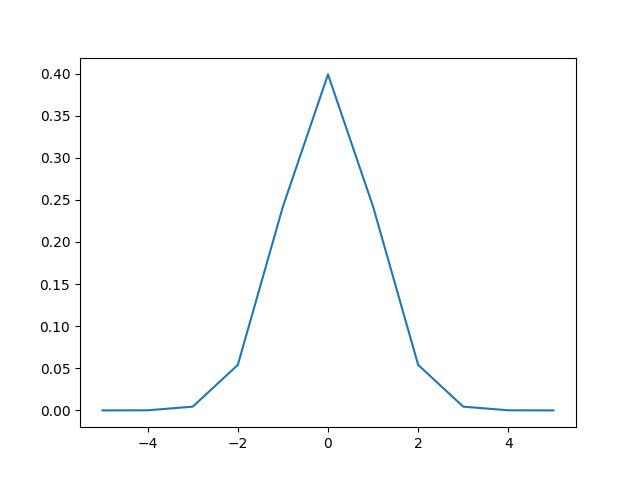
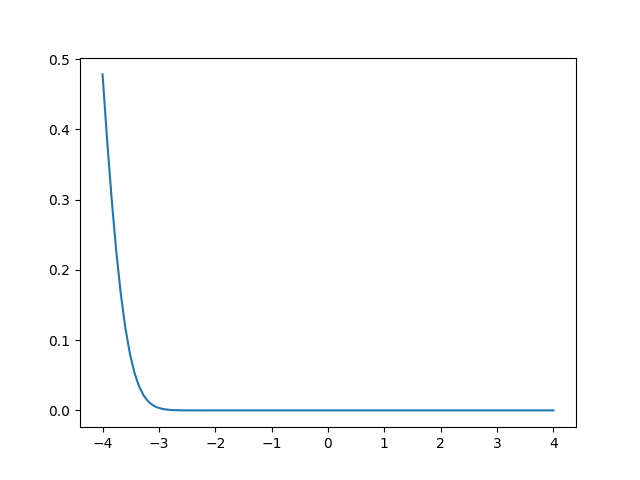
mise à jour du module proba

diff --git a/Cinquième_Livrable/Dossier_du_Cinquième_livrable/4.Programmation/style.css b/Cinquième_Livrable/Dossier_du_Cinquième_livrable/4.Programmation/style.css
@@ -333,19 +333,21 @@ h4 {
     margin-inline: 5%;
 }
 
-.Proba_Resultat span{
-    display: flex;
-    justify-content: center;
-    align-items: center;
-    gap: 30px;
+/*.Proba_Resultat span{*/
+/*    display: flex;*/
+/*    justify-content: center;*/
+/*    align-items: center;*/
+/*    gap: 30px;*/
+/*}*/
+.Proba_Resultat img{
+    width: 500px;
+    height: 300px;
 }
-.Proba_TextArea {
-    /* <Textarea> */
-    border: none;
-    resize: none;
-    width: 300px;
-    height: 200px;
-    /* L'utilisateur ne peut pas redimentionner */
+
+.Proba_Resultat .rectangle_vide{
+    width: 500px;
+    height: 300px;
+    background-color: #fff;
 }
 
 /* Module Conversion */

diff --git a/Cinquième_Livrable/Dossier_du_Cinquième_livrable/4.Programmation/Utilisateur/methode_rectangles.py b/Cinquième_Livrable/Dossier_du_Cinquième_livrable/4.Programmation/Utilisateur/methode_rectangles.py
@@ -1,7 +1,10 @@
 # Calcul de probabilité de la loi normale avec la méthode des rectangles droits
+from scipy.stats import norm
 import matplotlib.pyplot as plt
 import sys
 from loi_normale import loi_normale
+import numpy as np
+
 
 def methode_rectangles(mu, sigma, quantile):
     a = 0  # limite inferieur alpha de l'intervalle [a;b]
@@ -10,36 +13,28 @@ def methode_rectangles(mu, sigma, quantile):
     x = a
     largeur = (b - a) / n  # Largeur des rectangles
     resultat = 0
-    vx=[]
-    vy=[]
 
     for i in range(n):
         loi = loi_normale(mu,sigma,x)
         resultat = resultat + loi  # On somme la fonction de la loi normale
         x = x + largeur  # On avance pas à pas
-        vx.append(i)
-        vy.append(loi)
 
-    plt.bar(vx, vy, width=2)
     # Afficher le graphique
-    plt.show()
     return resultat * largeur + 0.5
 
 
-# def graphe(mu,sigma,quantile):
-#     x = [i for i in range(-5, 6)]
-#     y = [methode_rectangles(mu,sigma,i) for i in x]
-#
-#     plt.plot(x, y)
-#     # plt.show()
-#     plt.savefig('graphe.png')
-#     return loi_normale(mu,sigma,5)
+def graphe(mu,sigma,quantile):
+    plt.clf()
+    axe = np.linspace(-4, 4, 100)
+    plt.plot(axe, norm.pdf(axe, mu, sigma))
+    # plt.show()
+    plt.savefig('graphe.png')
+    return methode_rectangles(mu,sigma,quantile)
 
-#
-# if __name__ == '__main__':
-#     mu = float(sys.argv[1])
-#     sigma = float(sys.argv[2])
-#     quantile = float(sys.argv[3])
 
-resultat = methode_rectangles(0, 1, 0)
-print(resultat)
+if __name__ == '__main__':
+    mu = float(sys.argv[1])
+    sigma = float(sys.argv[2])
+    quantile = float(sys.argv[3])
+    resultat = graphe(mu, sigma, quantile)
+    print(resultat)

diff --git a/Cinquième_Livrable/Dossier_du_Cinquième_livrable/4.Programmation/Utilisateur/normal_law.php b/Cinquième_Livrable/Dossier_du_Cinquième_livrable/4.Programmation/Utilisateur/normal_law.php
@@ -1,18 +1,18 @@
 <?php
 
 if(isset($_POST["valider"])){
+    $methode_choisie = $_POST['methode'];
     $mu = $_POST['mu'];
     $sigma = $_POST['sigma'];
     $t = $_POST['t'];
     $loi_normale ="C:\Users\mlaat\AppData\Local\Programs\Python\Python310\python.exe loi_normale.py 2>&1";
     $methode_rectangles ="C:\Users\mlaat\AppData\Local\Programs\Python\Python310\python.exe methode_rectangles.py 2>&1";
-    $methode_trapezes ="C:\Users\mlaat\AppData\Local\Programs\Python\Python310\python.exe methode_rectangles.py 2>&1";
+    $methode_trapezes ="C:\Users\mlaat\AppData\Local\Programs\Python\Python310\python.exe methode_trapezes.py 2>&1";
 //  2>&1 à la fin du nom de la commande pour afficher et debugger les problèmes si il y en a
 
-    $result = exec($loi_normale . escapeshellarg(0) . ' ' . escapeshellarg(1) . ' ' . escapeshellarg(0));
-//    $result = exec($methode_rectangles . escapeshellarg($mu) . ' ' . escapeshellarg($sigma). ' ' . escapeshellarg($x));
-//    $result = exec($methode_trapezes . escapeshellarg($mu) . ' ' . escapeshellarg($sigma). ' ' . escapeshellarg($x));
-//    echo "<img src='../graphe.png'>";
-
+    if($methode_choisie=="methode_rectangle_droit")
+        $result = exec($methode_rectangles . escapeshellarg($mu) . ' ' . escapeshellarg($sigma). ' ' . escapeshellarg($t));
+    else
+        $result = exec($methode_trapezes . escapeshellarg($mu) . ' ' . escapeshellarg($sigma). ' ' . escapeshellarg($t));
     header("Location: SimFast-Module_Probabilite.php?result=$result");
 }

diff --git a/Cinquième_Livrable/Dossier_du_Cinquième_livrable/4.Programmation/Utilisateur/SimFast-Module_Probabilite.php b/Cinquième_Livrable/Dossier_du_Cinquième_livrable/4.Programmation/Utilisateur/SimFast-Module_Probabilite.php
@@ -56,16 +56,20 @@ if(isset($_SESSION['login'])){
                             <td><input type="submit" name="valider" value="valider"></td>
                         </tr>
                     </table>
-                </form>
             </div>
-            <div class="Proba_Resultat">
-                <span>
-                    <textarea class="Proba_TextArea" name="Proba_inferieur"></textarea>
-                    <input type="text" value="Méthode des rectangles">
-                </span>
 
+            <div class="Proba_Resultat">
+                    <?php if(isset($_GET["result"]))
+                        echo "<img src='graphe.png' alt='graphe'>";
+                    else
+                        echo "<div class='rectangle_vide'></div>"; ?>
                 <p> P(X < t) <?php if(isset($_GET["result"]))echo " = " . $_GET["result"]?> </p>
-                <p>  </p>
+                    <select name="methode" id="methode">
+                        <option value="methode_rectangle_droit">methode rectangles droits</option>
+                        <option value="methode_rectangle_gauche">methode rectangles gauches</option>
+                        <option value="methode_trapeze">methode trapèzes</option>
+                    </select>
+                </form>
             </div>
         </div>
     </div>

diff --git a/Cinquième_Livrable/Dossier_du_Cinquième_livrable/4.Programmation/Utilisateur/methode_trapezes.py b/Cinquième_Livrable/Dossier_du_Cinquième_livrable/4.Programmation/Utilisateur/methode_trapezes.py
@@ -1,6 +1,9 @@
 # Calcul de probabilité de la loi normale avec la méthode des trapèzes
+from scipy.stats import norm
+import matplotlib.pyplot as plt
 from loi_normale import loi_normale
 import sys
+import numpy as np
 
 def methode_trapezes(mu,sigma,quantile):
     n = 1000000
@@ -9,16 +12,26 @@ def methode_trapezes(mu,sigma,quantile):
     largeur = (b - a) / n
     x = a
     resultat = 0
-
     ab = loi_normale(mu,sigma,x) + loi_normale(mu,sigma,quantile)
     for i in range(n):
         resultat = resultat + loi_normale(mu,sigma,x)
         x = x + largeur
     return (largeur / 2) * (ab + 2 * resultat) + 0.5
 
+
+def graphe(mu,sigma,quantile):
+    plt.clf()
+    axe = np.linspace(-4, 4, 100)
+    plt.plot(axe, norm.pdf(axe, mu, sigma))
+    # plt.show()
+    plt.savefig('graphe.png')
+    return methode_trapezes(mu,sigma,quantile)
+
+
+
 if __name__ == '__main__':
     mu = float(sys.argv[1])
     sigma = float(sys.argv[2])
     quantile = float(sys.argv[3])
-    resultat = methode_trapezes(mu, sigma, quantile)
+    resultat = graphe(mu, sigma, quantile)
     print(resultat)

diff --git a/Cinquième_Livrable/Dossier_du_Cinquième_livrable/4.Programmation/Utilisateur/loi_normale.py b/Cinquième_Livrable/Dossier_du_Cinquième_livrable/4.Programmation/Utilisateur/loi_normale.py
@@ -7,20 +7,9 @@ import sys
 def loi_normale(mu, sigma, x):
     return (1 / (sigma * math.sqrt(2 * math.pi))) * math.exp(-(x - mu) ** 2 / (2 * sigma ** 2))
 
-def graphe(mu,sigma):
-    x = [i for i in range(-5, 6)]
-    y = [loi_normale(mu,sigma,i) for i in x]
-
-    plt.plot(x, y)
-    # plt.show()
-    plt.savefig('graphe.png')
-    return loi_normale(mu,sigma,5)
-
-
 if __name__ == '__main__':
     mu = float(sys.argv[1])
     sigma = float(sys.argv[2])
     x = int(sys.argv[3])
     resultat = loi_normale(mu, sigma, x)
-    # resultat = graphe(mu,sigma)
     print(resultat)
